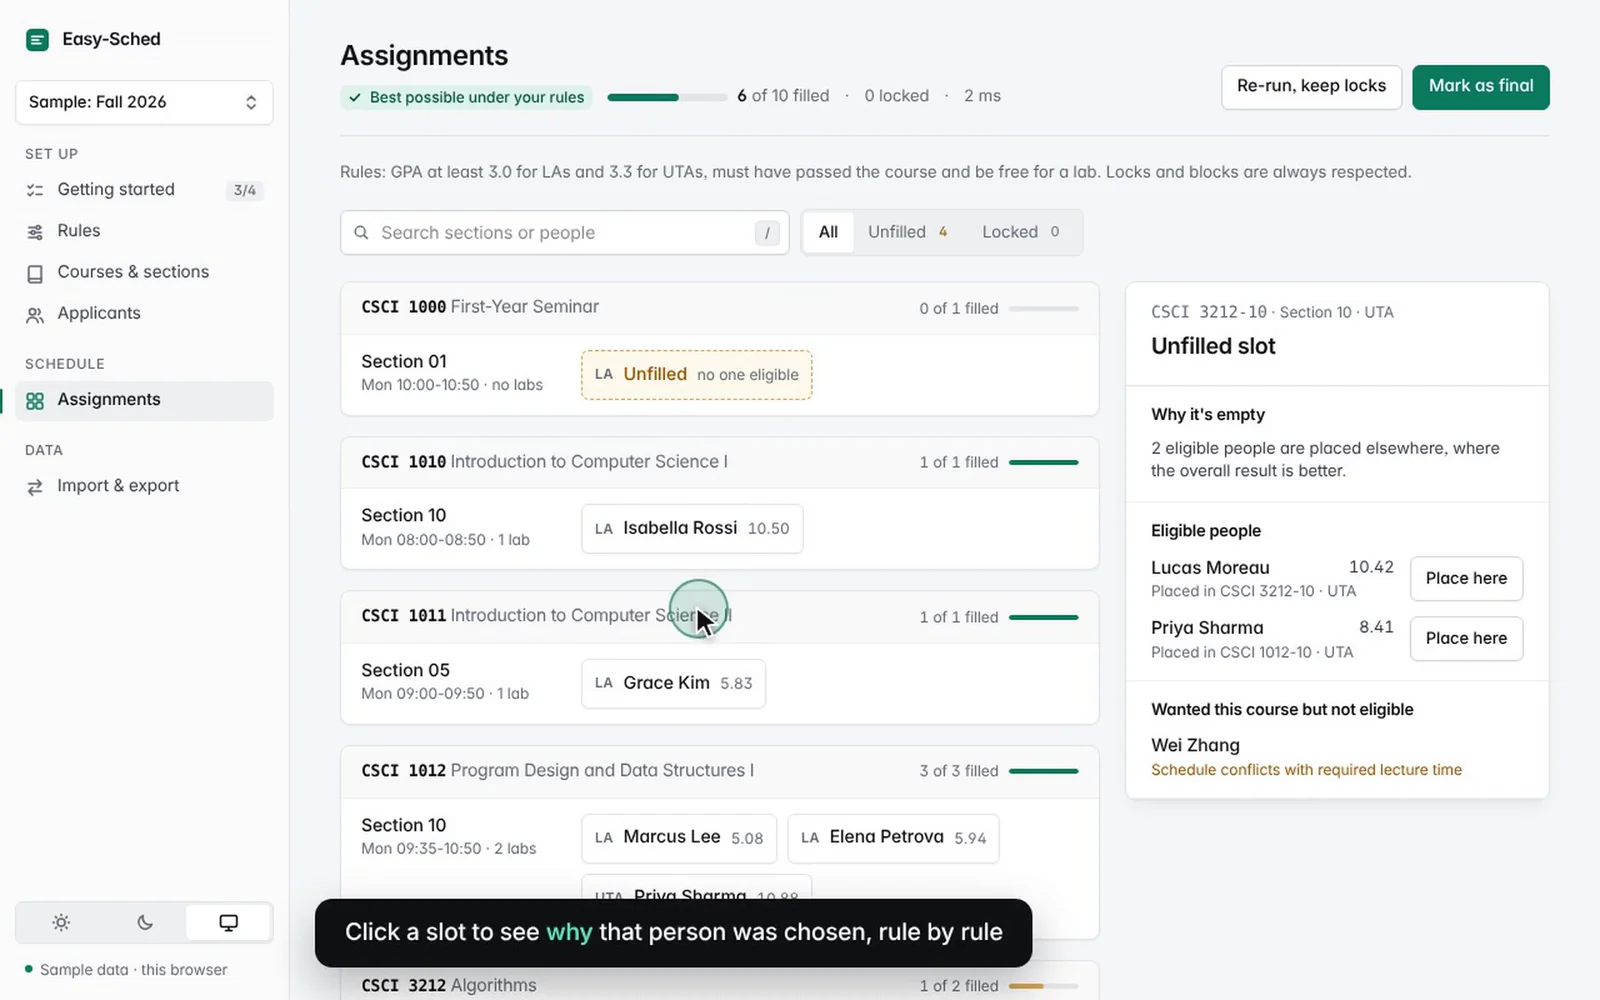
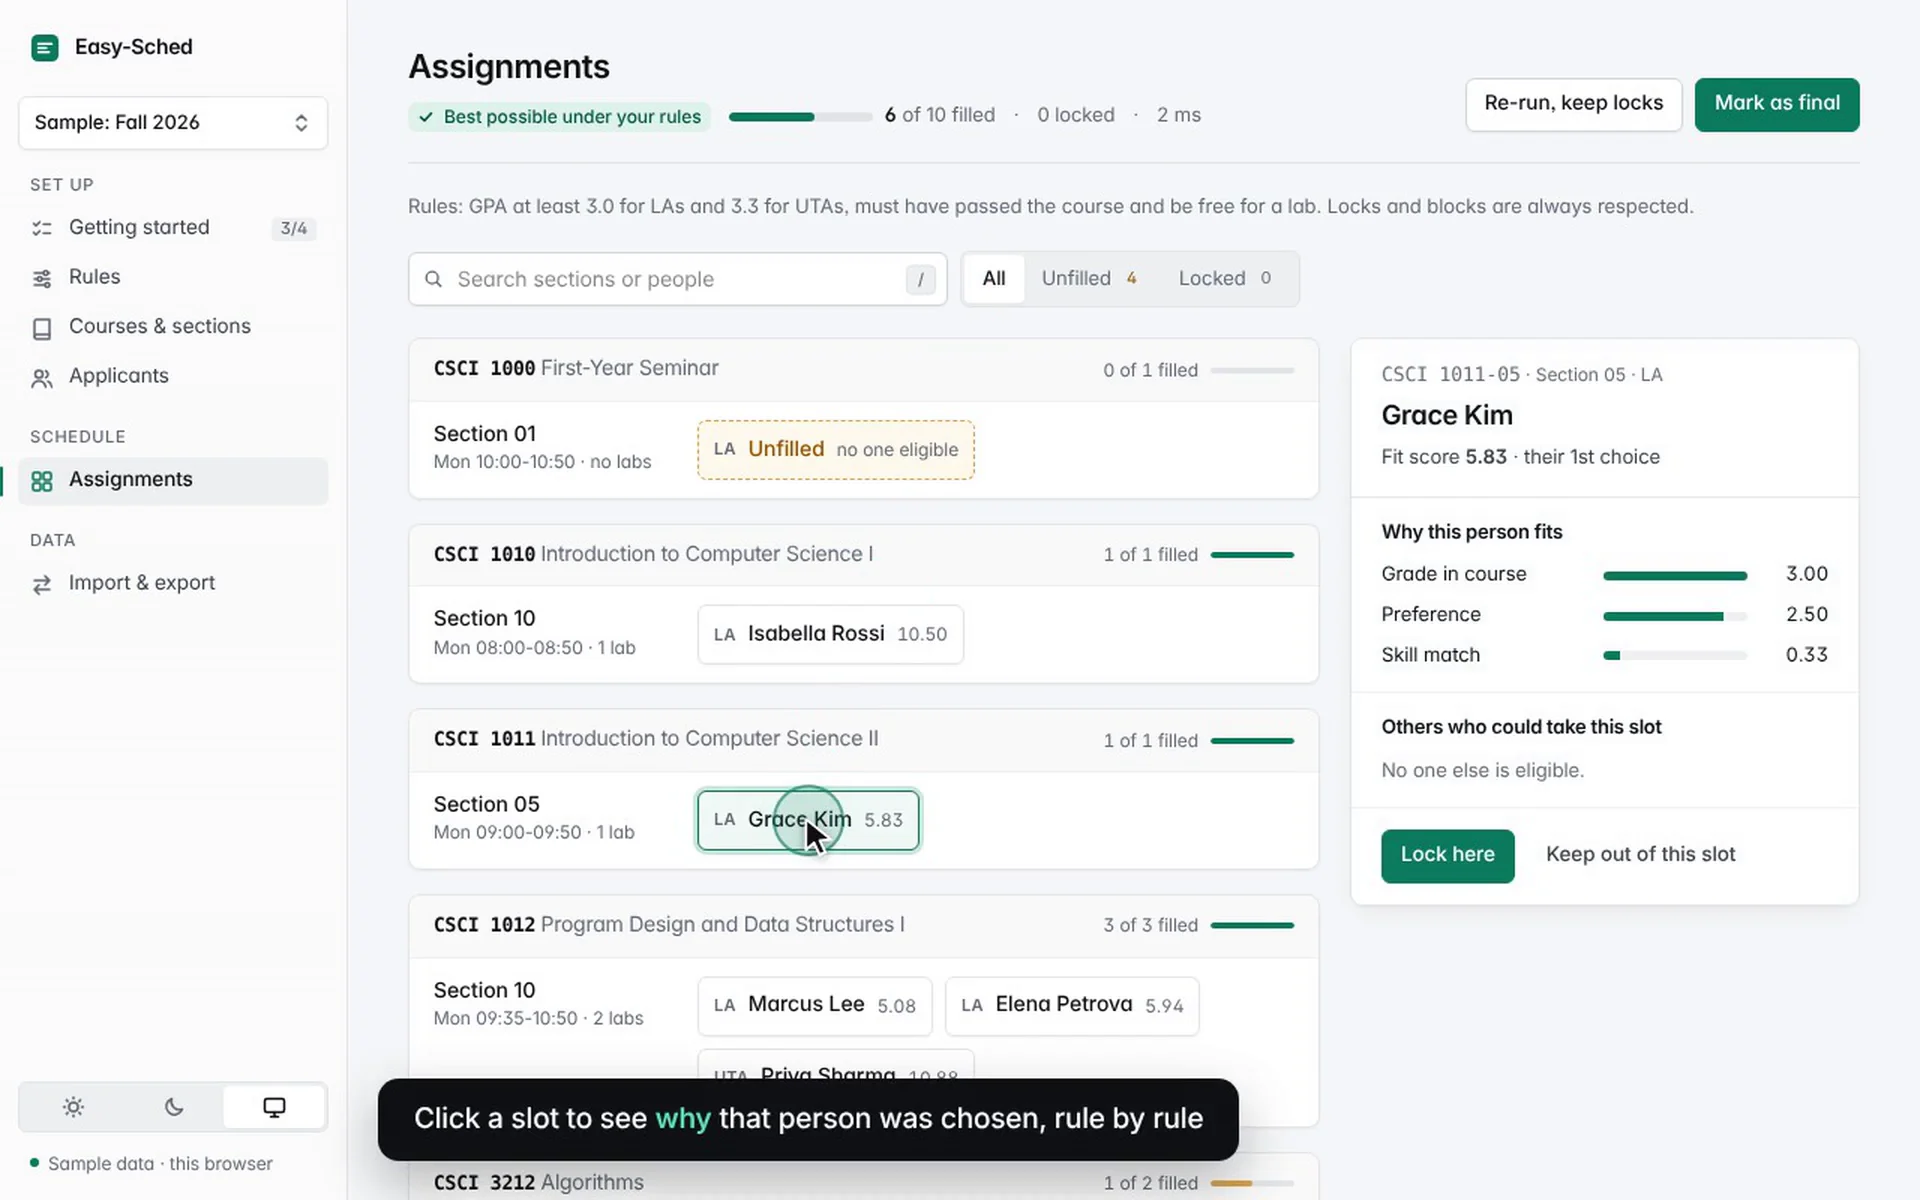
Project previews: key scenes, centred crops, films as the highlight
- Work page: supporting pictures cropped from the centre, not the top left,
  and chosen as each project's key scenes: Easy-Sched's assignments board
  and rules; the formality distribution and family charts (fresh captures
  of the new figures, light and dark); Sengoku's early and late game
- Formality cover is the new Formality Rate figure; the old bar-chart
  screenshots are removed
- New film posters at the key moment: Easy-Sched's 'why this person was
  chosen' scene, Sengoku mid-battle
- Home: Sengoku Jidai gets its own band with its film as the highlight;
  Easy-Sched shows the rules screen instead of CSV upload; list
  thumbnails centred
- LoopVideo takes a start offset; previews of the Sengoku film skip the
  menu and scene wipe and loop from the first frame of play

diff --git a/src/pages/Home.tsx b/src/pages/Home.tsx
@@ -7,12 +7,13 @@ import { LoopVideo, Shot, ThemedImg, ThemedShot } from "../components/site/Media
 
 const easySched = projects.find((p) => p.id === "easysched-reworked")!;
 const formality = projects.find((p) => p.id === "formality-bias-nlu")!;
+const sengoku = projects.find((p) => p.id === "sengoku-jidai")!;
 
 /* Inline frames after a name in the running list of work. */
 const FRAMES: Record<string, string> = {
     "easysched-reworked": "/media/easy-sched/board-dark.webp",
-    "formality-bias-nlu": "/media/formality/corpora-dark.webp",
-    "sengoku-jidai": "/media/sengoku/battle.webp",
+    "formality-bias-nlu": "/media/formality/rate-dark.webp",
+    "sengoku-jidai": "/media/sengoku/early.webp",
 };
 
 function projectHref(p: Project) {
@@ -95,9 +96,9 @@ export default function Home() {
                     </Rise>
                     <Rise as="figure" className="m-0 md:col-span-7" delay={90}>
                         <Shot ratio={1.6}>
-                            <ThemedShot name="upload" alt="CSV upload screen with a template link, the accepted columns and a preview step" width={1400} height={875} />
+                            <ThemedShot name="rules" alt="Department rules: minimum GPAs for each role and sliders weighting grade, preference, experience, recommendations and skills" width={1400} height={875} />
                         </Shot>
-                        <figcaption className="mt-3 text-[15px] text-muted text-center">Spreadsheets are checked row by row before anything is saved.</figcaption>
+                        <figcaption className="mt-3 text-[15px] text-muted text-center">The department sets the rules; the solver finds the best schedule under them.</figcaption>
                     </Rise>
                 </div>
                 <Rise className={`${frame} mt-14 grid gap-10 md:grid-cols-3`} delay={120}>
@@ -121,8 +122,8 @@ export default function Home() {
                         <Shot ratio={1400 / 254} fit={1}>
                             <ThemedImg src="/media/formality/demo-{theme}.webp" alt="An assistant reply with its formal words struck through and replaced by plain ones: elucidate becomes explain, commence becomes start, delve into becomes get into" width={1400} height={254} />
                         </Shot>
-                        <Shot ratio={1100 / 682} fit={1}>
-                            <ThemedImg src={formality.caseStudy!.cover.src} alt={formality.caseStudy!.cover.alt} width={1100} height={682} />
+                        <Shot ratio={formality.caseStudy!.cover.width / formality.caseStudy!.cover.height} fit={1}>
+                            <ThemedImg src={formality.caseStudy!.cover.src} alt={formality.caseStudy!.cover.alt} width={formality.caseStudy!.cover.width} height={formality.caseStudy!.cover.height} />
                         </Shot>
                     </Rise>
                     <Rise className="lg:col-span-5 flex flex-col gap-6" delay={90}>
@@ -148,6 +149,38 @@ export default function Home() {
                 </div>
             </section>
 
+            {/* ---------- Sengoku Jidai: the game, its film as the highlight ---------- */}
+            <section className="pt-[clamp(80px,12vw,200px)]" aria-labelledby="sengoku-title">
+                <div className={`${frame} grid gap-12 lg:grid-cols-12 items-center`}>
+                    <Rise className="lg:col-span-5 flex flex-col gap-6 order-2 lg:order-1">
+                        <h2 id="sengoku-title" className="m-0 text-[clamp(36px,4.2vw,64px)] font-semibold leading-[1] tracking-[-0.04em]">Sengoku Jidai</h2>
+                        <p className="m-0 text-[length:var(--text-body)] leading-[1.6]">{sengoku.caseStudy!.summary}</p>
+                        <dl className="m-0 grid grid-cols-3 gap-4">
+                            {sengoku.caseStudy!.facts.map((f) => (
+                                <div key={f.label} className="flex flex-col-reverse gap-1">
+                                    <dt className="text-[14px] text-muted">{f.label}</dt>
+                                    <dd className="m-0 text-[clamp(18px,1.6vw,24px)] font-semibold tracking-[-0.02em]">{f.value}</dd>
+                                </div>
+                            ))}
+                        </dl>
+                        <div className="flex flex-wrap gap-3">
+                            <Link to={sengoku.caseStudy!.path} className="inline-flex items-center h-12 px-6 rounded-full bg-main text-canvas text-[16px] font-medium no-underline transition-transform hover:scale-[1.03] active:scale-[0.98]">
+                                Read the case study
+                            </Link>
+                            <a href="/play/sengoku-jidai/index.html" target="_blank" rel="noopener noreferrer" className="inline-flex items-center h-12 px-5 rounded-full bg-card text-main text-[16px] no-underline hover:bg-raised transition-colors">
+                                Play it ↗
+                            </a>
+                        </div>
+                    </Rise>
+                    <Rise as="figure" className="lg:col-span-7 m-0 order-1 lg:order-2" delay={90}>
+                        <Shot ratio={1920 / 1076} fit={1}>
+                            <LoopVideo src={sengoku.caseStudy!.video!.src} poster={sengoku.caseStudy!.video!.poster} start={sengoku.caseStudy!.video!.start}
+                                label="Sengoku Jidai gameplay: choosing a chapter, then sending armies between cities on a hex map and capturing enemy cities" />
+                        </Shot>
+                    </Rise>
+                </div>
+            </section>
+
             {/* ---------- All the work, as one running paragraph of names ---------- */}
             <section className={`${frame} pt-[clamp(80px,12vw,200px)]`} aria-labelledby="work-title">
                 <Rise className="text-[clamp(26px,2.6vw,36px)] leading-[1.3] tracking-[-0.02em] font-medium">
@@ -158,7 +191,7 @@ export default function Home() {
                                 {p.short ?? p.title}
                                 {FRAMES[p.id] && (
                                     <span className="inline-block align-[-0.1em] ml-[0.25em] h-[0.8em] w-[1.25em] overflow-hidden rounded-[3px] origin-left transition-transform duration-300 group-hover:scale-[1.6]">
-                                        <img src={FRAMES[p.id]} alt="" width={60} height={38} loading="lazy" className="block w-full h-full object-cover object-left-top" />
+                                        <img src={FRAMES[p.id]} alt="" width={60} height={38} loading="lazy" className="block w-full h-full object-cover object-center" />
                                     </span>
                                 )}
                             </Link>

diff --git a/src/pages/Projects.tsx b/src/pages/Projects.tsx
@@ -4,19 +4,19 @@ import { projects, type Project } from "../data/projects";
 import { frame, Rise } from "../components/site/Rise";
 import { LoopVideo, ThemedImg } from "../components/site/Media";
 
-/* Two supporting pictures under each case study's cover. */
+/* Two supporting pictures under each case study's main picture or film: the project's key scenes. */
 const EXTRA: Record<string, { src: string; alt: string }[]> = {
     "easysched-reworked": [
-        { src: "/media/easy-sched/board-{theme}.webp", alt: "The assignments board with a slot's reasons open" },
-        { src: "/media/easy-sched/upload-{theme}.webp", alt: "CSV upload with a template and dry-run preview" },
+        { src: "/media/easy-sched/board-{theme}.webp", alt: "The assignments board: every section's slots filled by the solver, with the reasons panel open" },
+        { src: "/media/easy-sched/rules-{theme}.webp", alt: "Department rules: GPA floors and the weights that decide what makes a good fit" },
     ],
     "formality-bias-nlu": [
-        { src: "/media/formality/families-{theme}.webp", alt: "RoBERTa P(formal) by model family: every family above the human baselines" },
-        { src: "/media/formality/demo-{theme}.webp", alt: "An assistant reply with formal words swapped for plain ones" },
+        { src: "/media/formality/dist-{theme}.webp", alt: "Distribution of RoBERTa P(formal): human corpora pile up near 0, LLM replies near 1" },
+        { src: "/media/formality/family-{theme}.webp", alt: "Mean P(formal) by model family: every family above the ELI5 human baseline" },
     ],
     "sengoku-jidai": [
-        { src: "/media/sengoku/menu.webp", alt: "The title screen" },
-        { src: "/media/sengoku/battle.webp", alt: "Mid-game with armies on the roads and the city panel open" },
+        { src: "/media/sengoku/early.webp", alt: "Early game: blue troops march up the road toward the red cities, with the city panel open" },
+        { src: "/media/sengoku/late.webp", alt: "Late game: fully upgraded blue cities take the last red strongholds" },
     ],
 };
 
@@ -115,7 +115,7 @@ export default function Projects() {
                             <Rise as="figure" className={`m-0 lg:col-span-7 grid grid-cols-2 gap-4 ${i % 2 ? "lg:order-2" : ""}`}>
                                 <Link to={cs.path} className="group col-span-2 block rounded-2xl border border-layout bg-raised p-1.5 md:p-2" aria-label={`${p.short} case study`} data-ui><span className="block rounded-xl overflow-hidden bg-card">
                                     {cs.video ? (
-                                        <LoopVideo src={cs.video.src} poster={cs.video.poster} label={cs.video.label} />
+                                        <LoopVideo src={cs.video.src} poster={cs.video.poster} label={cs.video.label} start={cs.video.start} />
                                     ) : (
                                         <ThemedImg src={cs.cover.src} alt={cs.cover.alt} width={cs.cover.width} height={cs.cover.height} eager={i === 0}
                                             className="transition-transform duration-700 ease-out group-hover:scale-[1.03]" />
@@ -123,7 +123,7 @@ export default function Projects() {
                                 </span></Link>
                                 {(EXTRA[p.id] ?? []).map((x) => (
                                     <div key={x.src} data-ui className="rounded-xl border border-layout bg-raised p-1 aspect-[16/10]"><div className="rounded-lg overflow-hidden bg-card h-full">
-                                        <ThemedImg src={x.src} alt={x.alt} width={800} height={500} className="h-full! object-cover object-left-top" />
+                                        <ThemedImg src={x.src} alt={x.alt} width={800} height={500} className="h-full! object-cover object-center" />
                                     </div></div>
                                 ))}
                             </Rise>

diff --git a/src/data/projects.ts b/src/data/projects.ts
@@ -10,7 +10,7 @@ export type CaseStudy = {
     summary: string;
     cover: { src: string; alt: string; width: number; height: number };
     /** optional looping demo shown instead of the cover on the Work page */
-    video?: { src: string; poster: string; label: string };
+    video?: { src: string; poster: string; label: string; /** where previews start, skipping intros */ start?: number };
     facts: { label: string; value: string }[];
 };
 
@@ -106,7 +106,7 @@ export const projects: Project[] = [
         caseStudy: {
             path: "/projects/formality",
             summary: "Research across six model families: LLM replies are measurably more formal than human conversation, on a lexicon metric and a fine-tuned RoBERTa classifier alike, and LoRA can pull them back.",
-            cover: { src: "/media/formality/corpora-{theme}.webp", alt: "Mean Formality Rate by corpus: LLM replies at 7.62, three times ELI5 and far above Reddit and BlendedSkillTalk", width: 1100, height: 682 },
+            cover: { src: "/media/formality/rate-{theme}.webp", alt: "Mean Formality Rate by corpus and by model: LLM replies at 7.62 against 0.24 to 2.33 for the human corpora, and every common model above the human mean", width: 1600, height: 771 },
             facts: [
                 { label: "Conversations", value: "1M+" },
                 { label: "Model families", value: "6" },
@@ -139,8 +139,8 @@ export const projects: Project[] = [
         caseStudy: {
             path: "/projects/sengoku-jidai",
             summary: "A real-time strategy game in Godot, with an AI rival that routes troops to its frontier. Play the whole thing in the browser.",
-            cover: { src: "/media/sengoku/demo-poster.webp", alt: "Sengoku Jidai: blue and red cities joined by roads on a hex map", width: 1600, height: 896 },
-            video: { src: "/media/sengoku/demo.mp4", poster: "/media/sengoku/demo-poster.webp", label: "Sengoku Jidai gameplay" },
+            cover: { src: "/media/sengoku/demo-poster.webp", alt: "Sengoku Jidai mid-game: armies on the roads between blue and red cities on a hex map", width: 1920, height: 1076 },
+            video: { src: "/media/sengoku/demo.mp4", poster: "/media/sengoku/demo-poster.webp", label: "Sengoku Jidai gameplay", start: 3 },
             facts: [
                 { label: "Engine", value: "Godot" },
                 { label: "Levels", value: "3" },

diff --git a/src/components/site/Media.tsx b/src/components/site/Media.tsx
@@ -62,21 +62,34 @@ export function ThemedShot({ name, alt, width, height, className = "", eager = f
  * A muted, looping product film with a poster frame. It only plays while on
  * screen, and stays on the poster for people who prefer reduced motion.
  */
-export function LoopVideo({ src, poster, label, className = "" }: {
+export function LoopVideo({ src, poster, label, className = "", start = 0 }: {
     src: string; poster: string; label: string; className?: string;
+    /** seconds to skip at the start; the loop also returns here (for previews that open on the key scene) */
+    start?: number;
 }) {
     const ref = useRef<HTMLVideoElement>(null);
     useEffect(() => {
         const el = ref.current;
         if (!el) return;
-        if (window.matchMedia("(prefers-reduced-motion: reduce)").matches) return;
+        const seek = () => { if (start > 0 && el.currentTime < start) el.currentTime = start; };
+        const restart = () => { el.currentTime = start; el.play().catch(() => { /* autoplay blocked */ }); };
+        el.addEventListener("loadedmetadata", seek);
+        el.addEventListener("ended", restart);
+        if (window.matchMedia("(prefers-reduced-motion: reduce)").matches) return () => {
+            el.removeEventListener("loadedmetadata", seek);
+            el.removeEventListener("ended", restart);
+        };
         const obs = new IntersectionObserver(([e]) => {
-            if (e.isIntersecting) el.play().catch(() => { /* autoplay blocked: poster stays */ });
+            if (e.isIntersecting) { seek(); el.play().catch(() => { /* autoplay blocked: poster stays */ }); }
             else el.pause();
         }, { threshold: 0.25 });
         obs.observe(el);
-        return () => obs.disconnect();
-    }, []);
+        return () => {
+            obs.disconnect();
+            el.removeEventListener("loadedmetadata", seek);
+            el.removeEventListener("ended", restart);
+        };
+    }, [start]);
     return (
         <video
             ref={ref}
@@ -84,7 +97,7 @@ export function LoopVideo({ src, poster, label, className = "" }: {
             src={src}
             poster={poster}
             muted
-            loop
+            loop={start === 0}
             playsInline
             preload="metadata"
             aria-label={label}
